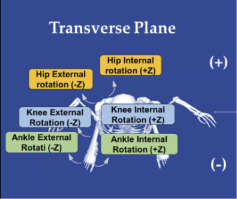
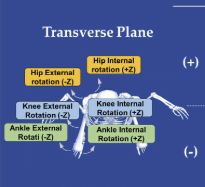
finished background rough copy of project plan

diff --git a/docs/background_information/background.html b/docs/background_information/background.html
@@ -186,6 +186,49 @@ ul.task-list li input[type="checkbox"] {
 <h2 class="anchored" data-anchor-id="prior-work-in-squatting-analysis">Prior Work in Squatting Analysis</h2>
 <p>Many studies have looked at proper squat form and measured associated kinematics. Kinematics are commonly measured in three planes: sagittal, frontal, transverse. There are fundamental movements associated with each plane (Koldenhoven and Behnke, 2027). In the sagittal plane, flexion is the reduction of an angle formed by the bones of a joint, while returning to the original position is extension (Koldenhoven and Behnke, 2027). In the frontal plane, adduction and abduction are defined as movements towards or away from the midline of the body, respectively (Koldenhoven and Behnke, 2027). Finally, in the transverse plane, there is internal and external rotation, usually from the midline of the body (Koldenhoven and Behnke, 2027).</p>
 <p>From these foundational movements, there are many common joint kinematics that are studied in squat analyses such as knee internal/external rotation, hip internal/external rotation, hip adduction/abduction, knee flexion/extension, hip flexion/extension, and trunk flexion (which is determined by hip and knee flexion) (Straub and Powers, 2024).</p>
+<figure class="figure">
+<div id="trio" class="quarto-layout-panel" data-layout="[26, 29, 45]">
+<div class="quarto-layout-row">
+<div class="quarto-layout-cell" style="flex-basis: 26.0%;justify-content: center;">
+<p><img src="images/skele_sagittal.png" class="img-fluid figure-img"></p>
+</div>
+<div class="quarto-layout-cell" style="flex-basis: 29.0%;justify-content: center;">
+<p><img src="images/skele_frontal.png" class="img-fluid figure-img"></p>
+</div>
+<div class="quarto-layout-cell" style="flex-basis: 45.0%;justify-content: center;">
+<p><img src="images/skele_transverse.png" class="img-fluid figure-img"></p>
+</div>
+</div>
+</div>
+<figcaption>
+Foundational kinematics for the hip, knee, and ankle in the sagittal, frontal, and transverse planes (Modified from Sohn and Koo, 2023).
+</figcaption>
+</figure>
+<p>One such study analyzed how stance width and foot placement angle affected knee, hip motion, and trunk position. In general, knee deviation (ΔD*) as a percentage of leg length was used as a measure of deviation from proper form, since low deviation indicates that the knees are “maintained vertically between the malleoli in the frontal plane,” which helps “avoid displacement and additional passive forces, and thereby reduce the risk of injury” (Lorenzetti et al., 2018). Lorenzetti et al.&nbsp;found that knee deviation ranges between -17%-27%, where a negative deviation corresponds to inwards rotation and valgus position and a positive deviation corresponds to outwards rotation and varus position. A wider stance tends to lead to smaller deviations and wider foot placement angles tends to lead to larger deviations. The knee range of motion tends to be fairly constant across stances, whereas the hip range of motion is more sensitive to the foot position. Below summarizes the common trends and range of motion experienced by the hip and knees:</p>
+<ul>
+<li>Increases with wider stance and foot angle:
+<ul>
+<li>Hip front angle: range of 5-27 degrees</li>
+<li>Hip transverse angle: range of 8-38 degrees</li>
+</ul></li>
+<li>Remains fairly constant regardless of stance:
+<ul>
+<li>Hip sagittal angle: range of 83-93 degrees</li>
+<li>Knee front angle: range of 4-8 degrees</li>
+<li>Knee sagittal angle: range of 85-107 degrees</li>
+<li>Knee transverse angle: range of 8-17 degrees</li>
+</ul></li>
+</ul>
+<p>Lorenzetti et al.&nbsp;also found that a wider stance and foot angle leads to increased hip adduction angle and lower adduction moment. Additionally, these moments tend to increase with load. As a result of their study, Lorenzetti et al.&nbsp;recommends a “moderate foot placement angle (approximately 20°) in combination with a moderate stance width (with feet approximately shoulder width apart)” for proper squatting form (Lorenzetti et al., 2018).</p>
+<p>In regards to trunk position, Straub and Power explain how the squatter’s stance can affect joint flexion and moments (Straub and Powers, 2024). In general, a more upright stance leads to an increase in the knee flexion moment and decreases the hip flexion moment, while a stance that is shifted forward leads to an increase in the hip flexion moment and decreases the knee flexion moment, as seen in the image below. Straub and Powers found that as forward trunk inclination increases, so does the muscular demand on the lower back to stabilize the trunk. Therefore, Straub and Powers recommend maintaining a neutral spine position to control compressive and shear forces during the squat (Straub and Powers, 2024).</p>
+<div class="quarto-figure quarto-figure-center">
+<figure class="figure">
+<p><img src="images/trunk_orientation_effects.jpeg" class="img-fluid figure-img"></p>
+<figcaption>A. An upright trunk stance during a squat. B. A forward shifted trunk during a squat (Straub and Powers, 2024).</figcaption>
+</figure>
+</div>
+<p>Another article provides a proposed assessment of functional deficits in squat form, highlighting 10 criteria for the ideal squat position. These include maintaining the neck perpendicular to the ground with a forward gaze, maintaining the chest in an upward position with shoulder blades retracted, and keeping the trunk parallel to the tibia with a slightly lordotic (inward curving) lumbar spine (Myer et al., 2014). In addition, the hips should remain parallel to the ground in the frontal plane, the knees should not laterally cross the medial malleolus, the tibias should remain parallel to the torso, and the feet should stay flat on the ground (Myer et al., 2014). Also, the squatter should descend at a controlled constant speed until the top of the quadriceps are at least parallel to the ground, then ascend such that the shoulder and hips rise at the same time (Myer et al., 2014).</p>
+<p>Based on this review, proper squat form can be determined by certain criteria, such as stance, foot width, and spine position where there are ranges of joint angles within the optimal criteria. This provides baseline proper form criteria and joint angles to compare our test results against.</p>
 
 
 </section>

diff --git a/docs/index.html b/docs/index.html
@@ -234,7 +234,7 @@ ul.task-list li input[type="checkbox"] {
     }
       var localhostRegex = new RegExp(/^(?:http|https):\/\/localhost\:?[0-9]*\//);
       var mailtoRegex = new RegExp(/^mailto:/);
-        var filterRegex = new RegExp('/' + window.location.host + '/');
+        var filterRegex = new RegExp("https:\/\/klatvakoski\.github\.io\/BBM-website\/");
       var isInternal = (href) => {
           return filterRegex.test(href) || localhostRegex.test(href) || mailtoRegex.test(href);
       }

diff --git a/docs/methods/methods.html b/docs/methods/methods.html
@@ -232,7 +232,7 @@ ul.task-list li input[type="checkbox"] {
     }
       var localhostRegex = new RegExp(/^(?:http|https):\/\/localhost\:?[0-9]*\//);
       var mailtoRegex = new RegExp(/^mailto:/);
-        var filterRegex = new RegExp("https:\/\/klatvakoski\.github\.io\/BBM-website\/");
+        var filterRegex = new RegExp('/' + window.location.host + '/');
       var isInternal = (href) => {
           return filterRegex.test(href) || localhostRegex.test(href) || mailtoRegex.test(href);
       }

diff --git a/docs/sources.html b/docs/sources.html
@@ -246,7 +246,7 @@ ul.task-list li input[type="checkbox"] {
     }
       var localhostRegex = new RegExp(/^(?:http|https):\/\/localhost\:?[0-9]*\//);
       var mailtoRegex = new RegExp(/^mailto:/);
-        var filterRegex = new RegExp('/' + window.location.host + '/');
+        var filterRegex = new RegExp("https:\/\/klatvakoski\.github\.io\/BBM-website\/");
       var isInternal = (href) => {
           return filterRegex.test(href) || localhostRegex.test(href) || mailtoRegex.test(href);
       }
